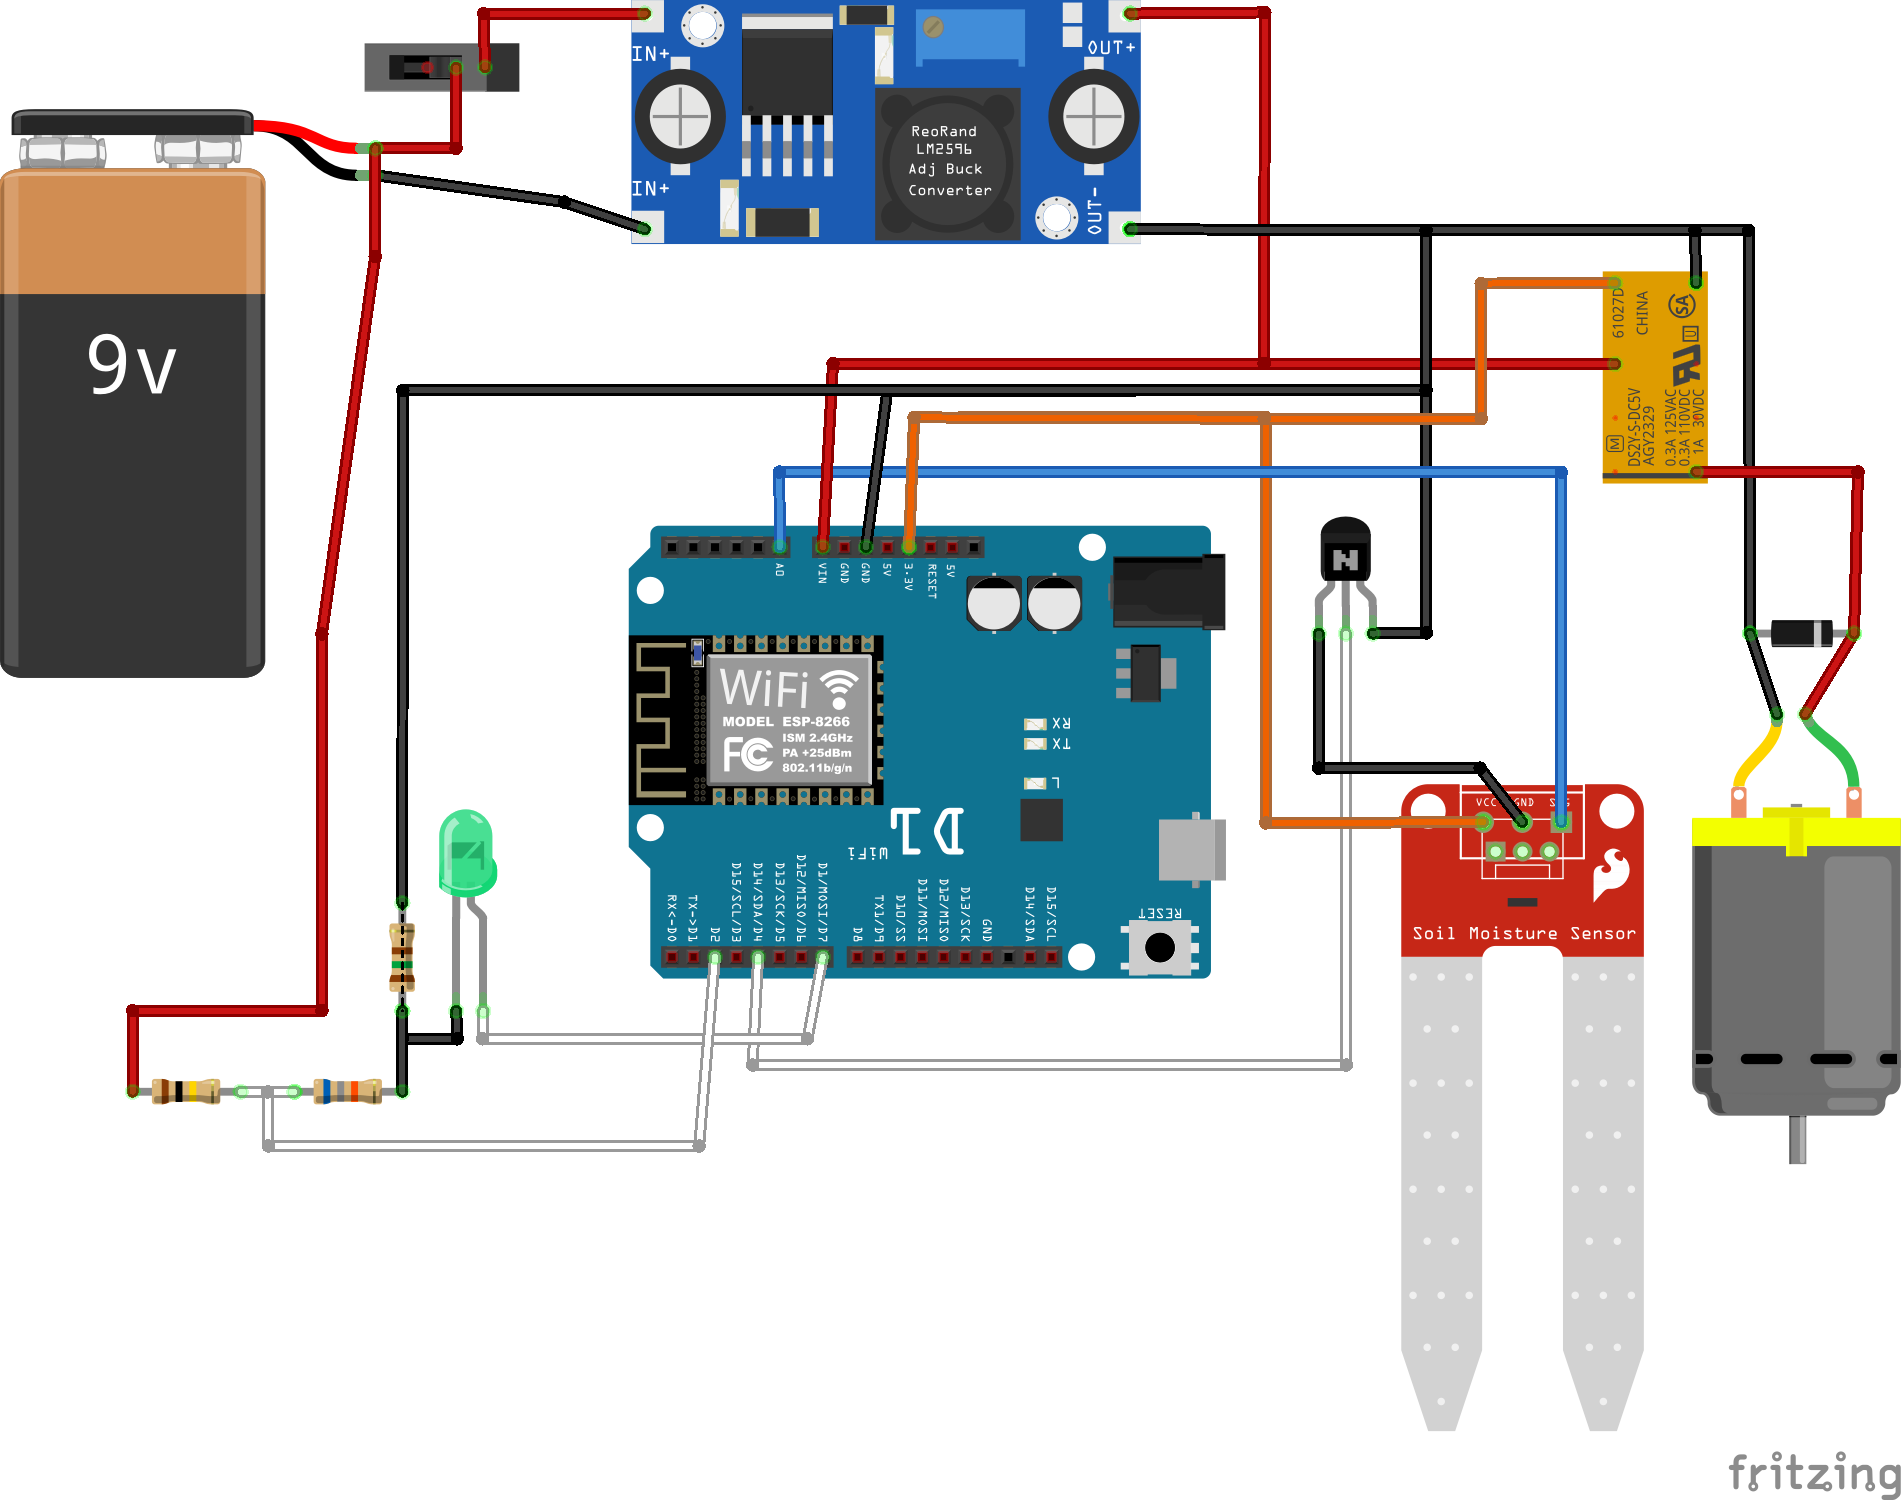
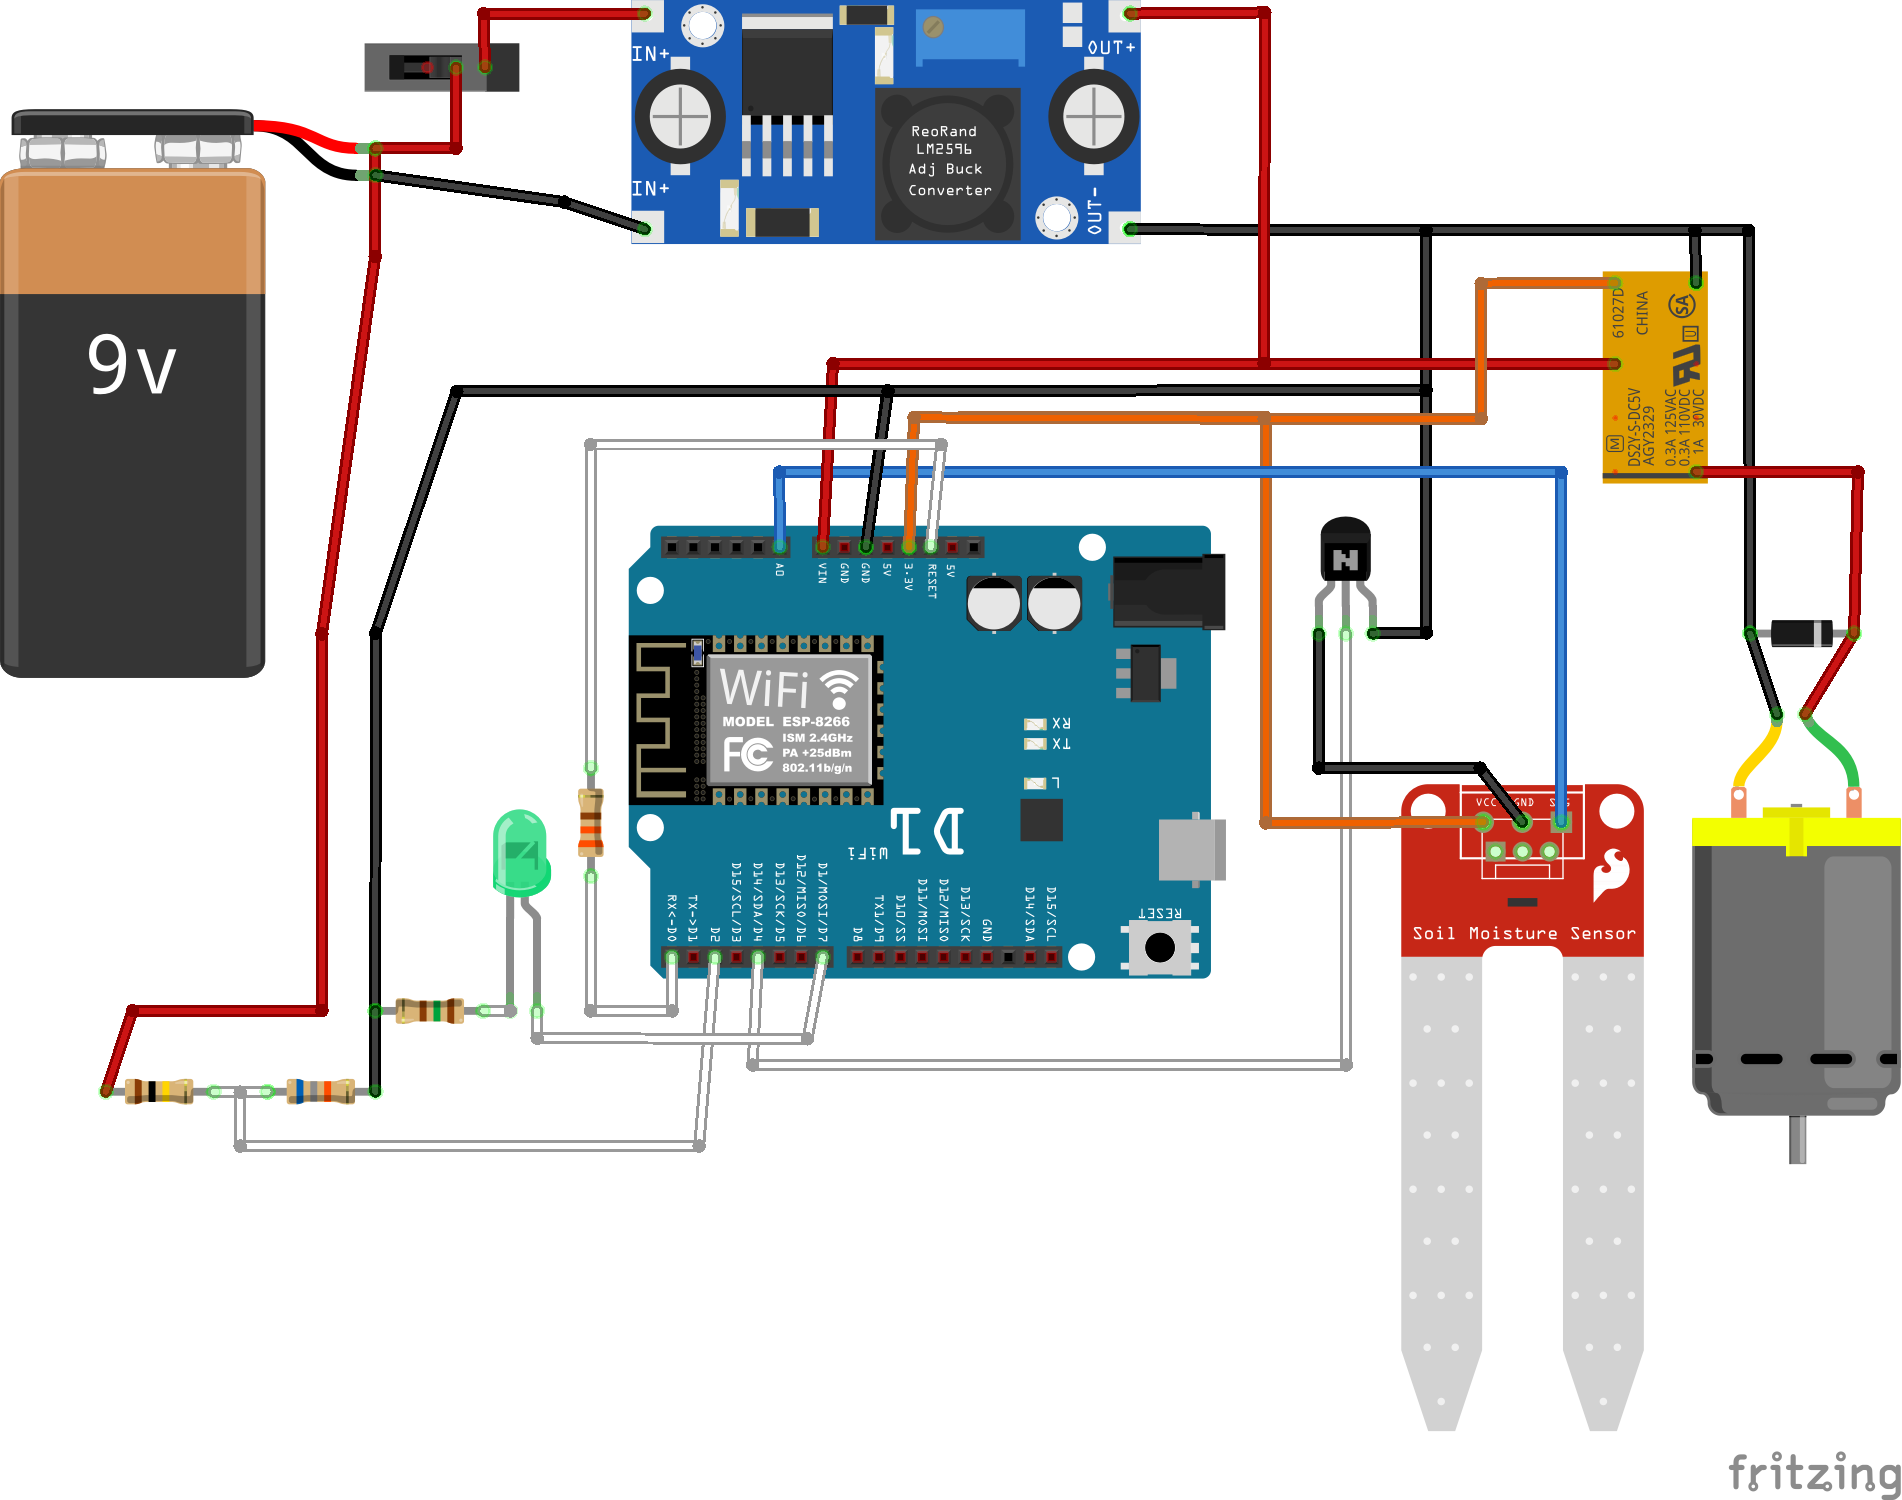
Updated schematic

Changed region(s): [[0.031, 0.2453, 0.3722, 0.7667], [0.3102, 0.276, 0.4963, 0.368], [0.1861, 0.092, 0.2171, 0.1227]]

diff --git a/config_example.h b/config_example.h
@@ -5,4 +5,25 @@
 #ifndef config_h
 #define config_h
 
+// At what level should the moisture sensor consider the water to have run out (larger number = less water)
+#define waterOutLevel 700
+
+// For how many milliseconds should the pump run (60000 = 60 seconds)
+#define pumpDuration 5000
+
+// The water level sensor is only activated when required by setting this pin HIGH
+#define PIN_WATER_LEVEL_POWER D4
+
+// The water level is read on this pin
+#define PIN_WATER_LEVEL A0
+
+// This pin activates the water pump
+#define PIN_PUMP D8
+
+// This pin controlls the attached LED
+#define PIN_LED D7
+
+// This pin simply registered whether the battery is low or not.
+#define PIN_BATTERY D2
+
 #endif

diff --git a/README.md b/README.md
@@ -1,2 +1,5 @@
 # watering_system
 dJPoida's automated garden watering system
+
+![Schematic](./designs/circuit design v1.0_schem.png)
+![Breadboard](./designs/circuit design v1.0_bb.png)
